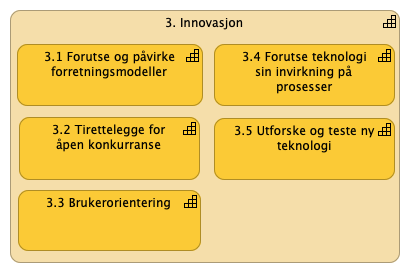
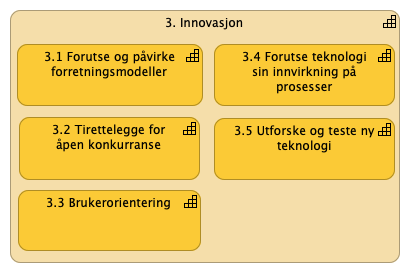
startside

Changed region(s): [[0.6146, 0.2344, 0.878, 0.293]]

diff --git a/docs/id-0322705d/views/20e4f00c-83ba-46d8-ac95-96dc15a09e89.html b/docs/id-0322705d/views/20e4f00c-83ba-46d8-ac95-96dc15a09e89.html
@@ -1,0 +1,115 @@
+<!DOCTYPE HTML PUBLIC "-//W3C//DTD HTML 4.01 Transitional//EN" "http://www.w3.org/TR/html4/loose.dtd">
+<html class="frame" lang="en">
+<head>
+	<meta http-equiv="Content-Type" content="text/html;charset=utf-8">
+	<title>Evner Samarbeid</title>
+
+	<!-- JQUERY (use 1.x branch to be compatible with IE 6/7/8) -->
+	<script type="text/javascript" src="../../lib/jquery/js/jquery-1.11.2.min.js"></script>
+	<!-- BOOTSTRAP -->
+	<link type="text/css" rel="stylesheet" href="../../lib/bootstrap/css/bootstrap-3.3.2.min.css">
+	<link type="text/css" rel="stylesheet" href="../../lib/bootstrap/css/bootstrap-theme-3.3.2.min.css">
+	<script type="text/javascript" src="../../lib/bootstrap/js/bootstrap-3.3.2.min.js"></script>
+	<!-- REPORT SPECIFIC -->
+	<link type="text/css" rel="stylesheet" href="../../css/model.css">
+	<link type="text/css" rel="stylesheet" href="../../css/i18n.css">
+	<script type="text/javascript" src="../../js/frame.js"></script>
+	<script type="text/javascript" src="../../js/imageMapResizer.min.js"></script>
+</head>
+
+<body>
+	<div class="panel panel-default root-panel">
+		<div class="panel-heading root-panel-heading">
+			<b>Evner Samarbeid</b>
+			(<span class="i18n-viewpoint-"></span>)
+			<a class="glyphicon glyphicon-info-sign" id="hint-viewpoint_" target="hint"></a>
+		</div>
+		<div class="panel-body root-panel-body">
+			<img class="diagram" src="../images/20e4f00c-83ba-46d8-ac95-96dc15a09e89.png" alt="Evner Samarbeid" usemap="#20e4f00c-83ba-46d8-ac95-96dc15a09e89map">
+			<map name="20e4f00c-83ba-46d8-ac95-96dc15a09e89map">
+								<area shape="rect" coords="17,46,198,107" href="../elements/id-bdad4017-a9b2-4dda-85db-9ab42f083fdd.html"  target="element">
+								<area shape="rect" coords="17,118,198,179" href="../elements/id-44c76f38-a586-4492-8188-064d75d26e78.html"  target="element">
+
+						<area shape="rect" coords="10,10,204,263" href="../elements/id-828ed446-0fb2-4317-8886-436a66b642cf.html"  target="element">
+
+			</map>
+			<div role="tabpanel">
+				<!-- Nav tabs -->
+				<ul class="nav nav-tabs" role="tablist">
+					<li role="presentation" class="active"><a href="#documentation" aria-controls="documentation" role="tab" data-toggle="tab" class="i18n-documentation"></a></li>
+					<li role="presentation"><a href="#properties" aria-controls="properties" role="tab" data-toggle="tab" class="i18n-properties"></a></li>
+						<li role="presentation"><a href="#elements" aria-controls="elements" role="tab" data-toggle="tab" class="i18n-elements"></a></li>
+						<li role="presentation"><a href="#relationships" aria-controls="relationships" role="tab" data-toggle="tab" class="i18n-relationships"></a></li>
+				</ul>
+
+				<!-- Tab panes -->
+				<div class="tab-content">
+					<div role="tabpanel" class="tab-pane active" id="documentation">
+						<textarea id="docsrc" style="display:none"></textarea>
+						<div id="doctgt" style="white-space:pre-wrap"></div>
+					</div>
+					<div role="tabpanel" class="tab-pane" id="properties">
+						<table class="table table-striped table-hover table-condensed">
+							<thead>
+								<tr>
+									<th class="i18n-key"></th>
+									<th class="i18n-value"></th>
+								</tr>
+							</thead>
+							<tbody>
+							</tbody>
+						</table>
+					</div>
+						<div role="tabpanel" class="tab-pane" id="elements">
+							<table class="table table-striped table-hover table-condensed">
+								<thead>
+									<tr>
+										<th class="i18n-name"></th>
+										<th class="i18n-type"></th>
+									</tr>
+								</thead>
+								<tbody>
+											<tr><td> <a href="../elements/id-828ed446-0fb2-4317-8886-436a66b642cf.html" target="element"> 4. Samarbeid </a> </td><td class="i18n-elementtype-Capability"></td></tr>
+													<tr><td> <a href="../elements/id-bdad4017-a9b2-4dda-85db-9ab42f083fdd.html" target="element"> 4.1 Koordinering </a> </td><td class="i18n-elementtype-Capability"></td></tr>
+													<tr><td> <a href="../elements/id-44c76f38-a586-4492-8188-064d75d26e78.html" target="element"> 4.2 Tjenesteeierskap og forvaltning </a> </td><td class="i18n-elementtype-Capability"></td></tr>
+											
+
+								</tbody>
+							</table>
+						</div>
+						<div role="tabpanel" class="tab-pane" id="relationships">
+							<table class="table table-striped table-hover table-condensed">
+								<thead>
+									<tr>
+										<th class="i18n-name"></th>
+										<th class="i18n-type"></th>
+										<th class="i18n-source"></th>
+										<th class="i18n-target"></th>
+									</tr>
+								</thead>
+								<tbody>
+																	<tr>
+																		<td> <a href="../elements/id-13865349-d09e-493d-b149-04084996fb95.html" target="element">  </a> </td>
+																		<td> <a href="../elements/id-13865349-d09e-493d-b149-04084996fb95.html" target="element" class="i18n-elementtype-CompositionRelationship"></a> </td>
+																		<td> <a href="../elements/id-828ed446-0fb2-4317-8886-436a66b642cf.html" target="element"> 4. Samarbeid </a> </td>
+																		<td> <a href="../elements/id-bdad4017-a9b2-4dda-85db-9ab42f083fdd.html" target="element"> 4.1 Koordinering </a> </td>
+																	</tr>
+																	<tr>
+																		<td> <a href="../elements/id-e97675c5-2b49-4c9a-b738-6e1e57c48ce3.html" target="element">  </a> </td>
+																		<td> <a href="../elements/id-e97675c5-2b49-4c9a-b738-6e1e57c48ce3.html" target="element" class="i18n-elementtype-CompositionRelationship"></a> </td>
+																		<td> <a href="../elements/id-828ed446-0fb2-4317-8886-436a66b642cf.html" target="element"> 4. Samarbeid </a> </td>
+																		<td> <a href="../elements/id-44c76f38-a586-4492-8188-064d75d26e78.html" target="element"> 4.2 Tjenesteeierskap og forvaltning </a> </td>
+																	</tr>
+
+											
+
+								</tbody>
+							</table>
+						</div>
+			  </div>
+			</div>
+		</div>
+	</div>
+	<script type="text/javascript">imageMapResize();</script>
+</body>
+</html>

diff --git a/docs/index.html b/docs/index.html
@@ -213,7 +213,7 @@
                                     				<li class="tree-element"><a href="id-0322705d/elements/id-9f5d172b-7ded-4d84-ad8c-b3d166b018c8.html" target="element"> Digitalt tilskuddsregister (DigiTilskudd) </a></li>
                                     				<li class="tree-element"><a href="id-0322705d/elements/id-1bccc859-a0bb-444b-9997-ba277557076e.html" target="element"> Verkt&#248;y </a></li>
                                     				<li class="tree-element"><a href="id-0322705d/elements/id-7797665a-3afc-4dce-bf68-555317e1cca6.html" target="element"> 3.7 Access to re-usable public sector information &#8211; Public Open Data </a></li>
-                                    				<li class="tree-element"><a href="id-0322705d/elements/id-58c5929e-b381-4cb4-9040-2e5ee0034865.html" target="element"> 3.4 Forutse teknologi sin invirkning p&#229; prosesser </a></li>
+                                    				<li class="tree-element"><a href="id-0322705d/elements/id-58c5929e-b381-4cb4-9040-2e5ee0034865.html" target="element"> 3.4 Forutse teknologi sin innvirkning p&#229; prosesser </a></li>
                                     				<li class="tree-element"><a href="id-0322705d/elements/id-34b89545-0ff1-4976-93ed-1e52e29e91bb.html" target="element"> Arbeidsgruppe videreutvikling av Frivillighetsregisteret </a></li>
                                     				<li class="tree-element"><a href="id-0322705d/elements/id-76bbf43f-ac4a-40ec-836f-3667078c62df.html" target="element"> 1.3 Strukturere dataene i modeller </a></li>
                                     				<li class="tree-element"><a href="id-0322705d/elements/id-af8b810c-0464-489a-b70b-183bb22f1a31.html" target="element"> Konsept, metode </a></li>
@@ -4267,7 +4267,7 @@
 													</a></li>
 													<li class="tree-element"><a href="id-0322705d/elements/id-4441d565-6279-4ea3-aa41-bc3a9268072c.html" target="element">
 															<span class="i18n-elementtype-CompositionRelationship"></span>
-														(3. Innovasjon - 3.4 Forutse teknologi sin invirkning p&#229; prosesser) 
+														(3. Innovasjon - 3.4 Forutse teknologi sin innvirkning p&#229; prosesser) 
 													</a></li>
 													<li class="tree-element"><a href="id-0322705d/elements/id-51eb8d8b-cc59-4f7c-9ee9-6808cada35ae.html" target="element">
 															<span class="i18n-elementtype-CompositionRelationship"></span>
@@ -7927,19 +7927,19 @@
 									</ul>
 									</li><li class="tree-folder"><span><i class="glyphicon glyphicon-triangle-right"></i> BR Evner DU </span>
 									<ul>
-										<li class="tree-folder"><span><i class="glyphicon glyphicon-triangle-right"></i> BR Evner Informasjonsforvaltning </span>
+										<li class="tree-folder"><span><i class="glyphicon glyphicon-triangle-right"></i> 1. Informasjonsforvaltning </span>
 											<ul>
 															<li class="tree-element"><a href="id-0322705d/views/id-74fbe580.html" target="view"> Informasjonsforvaltning begrepsmodell </a></li>
 															<li class="tree-element"><a href="id-0322705d/views/id-6ef4d0d0-d5dd-4c4e-9847-530d4740ff40.html" target="view"> Evner informasjonsforvaltning </a></li>
 															<li class="tree-element"><a href="id-0322705d/views/id-fdd09a54-40d4-4387-a013-e320820d11c4.html" target="view"> Evner informasjonsforvaltning detaljert </a></li>
 
 											</ul>
-											</li><li class="tree-folder"><span><i class="glyphicon glyphicon-triangle-right"></i> BR Evner Tilgjengeliggjøring </span>
+											</li><li class="tree-folder"><span><i class="glyphicon glyphicon-triangle-right"></i> 2. Tilgjengeliggjøring </span>
 											<ul>
 															<li class="tree-element"><a href="id-0322705d/views/3eac1f60-b853-4ec5-a8a1-fae58c8258a4.html" target="view"> Evner Tilgjengeliggj&#248;ring </a></li>
 
 											</ul>
-											</li><li class="tree-folder"><span><i class="glyphicon glyphicon-triangle-right"></i> BR Evner Innovasjon </span>
+											</li><li class="tree-folder"><span><i class="glyphicon glyphicon-triangle-right"></i> 3. Innovasjon </span>
 											<ul>
 															<li class="tree-element"><a href="id-0322705d/views/8d7d6118-745e-4c9f-b17f-ebd62ed22a15.html" target="view"> Evner informasjonsforvaltning </a></li>
 
@@ -7949,15 +7949,17 @@
 															<li class="tree-element"><a href="id-0322705d/views/4ac1b9d7-156f-4465-8113-b8c0d7de1991.html" target="view"> Evner Samarbeid </a></li>
 
 											</ul>
-											</li><li class="tree-folder"><span><i class="glyphicon glyphicon-triangle-right"></i> BR Evner Arkitektur </span>
+											</li><li class="tree-folder"><span><i class="glyphicon glyphicon-triangle-right"></i> 5. Arkitektur </span>
 											<ul>
 															<li class="tree-element"><a href="id-0322705d/views/c5872ea1-1fd6-49e9-9c29-746924837c48.html" target="view"> Evner arkitektur </a></li>
 
 											</ul>
-											</li><li class="tree-folder"><span><i class="glyphicon glyphicon-triangle-right"></i> BR Evner  </span>
+											</li><li class="tree-folder"><span><i class="glyphicon glyphicon-triangle-right"></i> 4. Samarbeid </span>
 											<ul>
+															<li class="tree-element"><a href="id-0322705d/views/20e4f00c-83ba-46d8-ac95-96dc15a09e89.html" target="view"> Evner Samarbeid </a></li>
+
 											</ul>
-											</li><li class="tree-folder"><span><i class="glyphicon glyphicon-triangle-right"></i> BR Evner Samfunnsøkonomiske analyser </span>
+											</li><li class="tree-folder"><span><i class="glyphicon glyphicon-triangle-right"></i> 6. Samfunnsøkonomiske analyser </span>
 											<ul>
 															<li class="tree-element"><a href="id-0322705d/views/80c2012a-163b-4837-9732-b5d74c60d946.html" target="view"> Evner samfunns&#248;konomiske analyser </a></li>
 

diff --git a/docs/id-0322705d/views/id-5e897cc8-b9cf-4923-85ce-6d3dbacc1854.html b/docs/id-0322705d/views/id-5e897cc8-b9cf-4923-85ce-6d3dbacc1854.html
@@ -112,7 +112,7 @@
 													
 													<tr><td> <a href="../elements/id-2656d7c4-3ea1-4680-84a1-7f8eaf416cef.html" target="element"> 3. Innovasjon </a> </td><td class="i18n-elementtype-Capability"></td></tr>
 															<tr><td> <a href="../elements/id-3568aefe-4449-4649-a293-9c533b75f5cf.html" target="element"> 3.1 Forutse og p&#229;virke forretningsmodeller </a> </td><td class="i18n-elementtype-Capability"></td></tr>
-															<tr><td> <a href="../elements/id-58c5929e-b381-4cb4-9040-2e5ee0034865.html" target="element"> 3.4 Forutse teknologi sin invirkning p&#229; prosesser </a> </td><td class="i18n-elementtype-Capability"></td></tr>
+															<tr><td> <a href="../elements/id-58c5929e-b381-4cb4-9040-2e5ee0034865.html" target="element"> 3.4 Forutse teknologi sin innvirkning p&#229; prosesser </a> </td><td class="i18n-elementtype-Capability"></td></tr>
 															<tr><td> <a href="../elements/id-3eaef368-1f73-47f5-93c5-2ee22d24a3e3.html" target="element"> 3.2 Tirettelegge for &#229;pen konkurranse </a> </td><td class="i18n-elementtype-Capability"></td></tr>
 															<tr><td> <a href="../elements/id-4fdbd02b-f7c6-4b20-82b8-ef247fa3e08a.html" target="element"> 3.5 Utforske og teste ny teknologi </a> </td><td class="i18n-elementtype-Capability"></td></tr>
 															<tr><td> <a href="../elements/id-9c5e6edd-3c0b-44f0-ba0a-fd2f4a364d72.html" target="element"> 3.3 Brukerorientering </a> </td><td class="i18n-elementtype-Capability"></td></tr>
@@ -233,7 +233,7 @@
 																				<td> <a href="../elements/id-4441d565-6279-4ea3-aa41-bc3a9268072c.html" target="element">  </a> </td>
 																				<td> <a href="../elements/id-4441d565-6279-4ea3-aa41-bc3a9268072c.html" target="element" class="i18n-elementtype-CompositionRelationship"></a> </td>
 																				<td> <a href="../elements/id-2656d7c4-3ea1-4680-84a1-7f8eaf416cef.html" target="element"> 3. Innovasjon </a> </td>
-																				<td> <a href="../elements/id-58c5929e-b381-4cb4-9040-2e5ee0034865.html" target="element"> 3.4 Forutse teknologi sin invirkning p&#229; prosesser </a> </td>
+																				<td> <a href="../elements/id-58c5929e-b381-4cb4-9040-2e5ee0034865.html" target="element"> 3.4 Forutse teknologi sin innvirkning p&#229; prosesser </a> </td>
 																			</tr>
 																			<tr>
 																				<td> <a href="../elements/id-7bf8082f-9dc1-48bc-a7e2-8a67afd35ad7.html" target="element">  </a> </td>

diff --git a/docs/id-0322705d/views/8d7d6118-745e-4c9f-b17f-ebd62ed22a15.html b/docs/id-0322705d/views/8d7d6118-745e-4c9f-b17f-ebd62ed22a15.html
@@ -74,7 +74,7 @@
 								<tbody>
 											<tr><td> <a href="../elements/id-2656d7c4-3ea1-4680-84a1-7f8eaf416cef.html" target="element"> 3. Innovasjon </a> </td><td class="i18n-elementtype-Capability"></td></tr>
 													<tr><td> <a href="../elements/id-3568aefe-4449-4649-a293-9c533b75f5cf.html" target="element"> 3.1 Forutse og p&#229;virke forretningsmodeller </a> </td><td class="i18n-elementtype-Capability"></td></tr>
-													<tr><td> <a href="../elements/id-58c5929e-b381-4cb4-9040-2e5ee0034865.html" target="element"> 3.4 Forutse teknologi sin invirkning p&#229; prosesser </a> </td><td class="i18n-elementtype-Capability"></td></tr>
+													<tr><td> <a href="../elements/id-58c5929e-b381-4cb4-9040-2e5ee0034865.html" target="element"> 3.4 Forutse teknologi sin innvirkning p&#229; prosesser </a> </td><td class="i18n-elementtype-Capability"></td></tr>
 													<tr><td> <a href="../elements/id-3eaef368-1f73-47f5-93c5-2ee22d24a3e3.html" target="element"> 3.2 Tirettelegge for &#229;pen konkurranse </a> </td><td class="i18n-elementtype-Capability"></td></tr>
 													<tr><td> <a href="../elements/id-4fdbd02b-f7c6-4b20-82b8-ef247fa3e08a.html" target="element"> 3.5 Utforske og teste ny teknologi </a> </td><td class="i18n-elementtype-Capability"></td></tr>
 													<tr><td> <a href="../elements/id-9c5e6edd-3c0b-44f0-ba0a-fd2f4a364d72.html" target="element"> 3.3 Brukerorientering </a> </td><td class="i18n-elementtype-Capability"></td></tr>
@@ -122,7 +122,7 @@
 																		<td> <a href="../elements/id-4441d565-6279-4ea3-aa41-bc3a9268072c.html" target="element">  </a> </td>
 																		<td> <a href="../elements/id-4441d565-6279-4ea3-aa41-bc3a9268072c.html" target="element" class="i18n-elementtype-CompositionRelationship"></a> </td>
 																		<td> <a href="../elements/id-2656d7c4-3ea1-4680-84a1-7f8eaf416cef.html" target="element"> 3. Innovasjon </a> </td>
-																		<td> <a href="../elements/id-58c5929e-b381-4cb4-9040-2e5ee0034865.html" target="element"> 3.4 Forutse teknologi sin invirkning p&#229; prosesser </a> </td>
+																		<td> <a href="../elements/id-58c5929e-b381-4cb4-9040-2e5ee0034865.html" target="element"> 3.4 Forutse teknologi sin innvirkning p&#229; prosesser </a> </td>
 																	</tr>
 
 											

diff --git a/docs/id-0322705d/views/id-67df2cee-0f4d-403b-8ccd-23c485ab56ee.html b/docs/id-0322705d/views/id-67df2cee-0f4d-403b-8ccd-23c485ab56ee.html
@@ -458,7 +458,7 @@
 													
 													<tr><td> <a href="../elements/id-2656d7c4-3ea1-4680-84a1-7f8eaf416cef.html" target="element"> 3. Innovasjon </a> </td><td class="i18n-elementtype-Capability"></td></tr>
 															<tr><td> <a href="../elements/id-3568aefe-4449-4649-a293-9c533b75f5cf.html" target="element"> 3.1 Forutse og p&#229;virke forretningsmodeller </a> </td><td class="i18n-elementtype-Capability"></td></tr>
-															<tr><td> <a href="../elements/id-58c5929e-b381-4cb4-9040-2e5ee0034865.html" target="element"> 3.4 Forutse teknologi sin invirkning p&#229; prosesser </a> </td><td class="i18n-elementtype-Capability"></td></tr>
+															<tr><td> <a href="../elements/id-58c5929e-b381-4cb4-9040-2e5ee0034865.html" target="element"> 3.4 Forutse teknologi sin innvirkning p&#229; prosesser </a> </td><td class="i18n-elementtype-Capability"></td></tr>
 															<tr><td> <a href="../elements/id-3eaef368-1f73-47f5-93c5-2ee22d24a3e3.html" target="element"> 3.2 Tirettelegge for &#229;pen konkurranse </a> </td><td class="i18n-elementtype-Capability"></td></tr>
 															<tr><td> <a href="../elements/id-4fdbd02b-f7c6-4b20-82b8-ef247fa3e08a.html" target="element"> 3.5 Utforske og teste ny teknologi </a> </td><td class="i18n-elementtype-Capability"></td></tr>
 													
@@ -1191,7 +1191,7 @@
 																				<td> <a href="../elements/id-4441d565-6279-4ea3-aa41-bc3a9268072c.html" target="element">  </a> </td>
 																				<td> <a href="../elements/id-4441d565-6279-4ea3-aa41-bc3a9268072c.html" target="element" class="i18n-elementtype-CompositionRelationship"></a> </td>
 																				<td> <a href="../elements/id-2656d7c4-3ea1-4680-84a1-7f8eaf416cef.html" target="element"> 3. Innovasjon </a> </td>
-																				<td> <a href="../elements/id-58c5929e-b381-4cb4-9040-2e5ee0034865.html" target="element"> 3.4 Forutse teknologi sin invirkning p&#229; prosesser </a> </td>
+																				<td> <a href="../elements/id-58c5929e-b381-4cb4-9040-2e5ee0034865.html" target="element"> 3.4 Forutse teknologi sin innvirkning p&#229; prosesser </a> </td>
 																			</tr>
 																			<tr>
 																				<td> <a href="../elements/id-7bf8082f-9dc1-48bc-a7e2-8a67afd35ad7.html" target="element">  </a> </td>

diff --git a/docs/id-0322705d/elements/model.html b/docs/id-0322705d/elements/model.html
@@ -399,7 +399,7 @@
 								Se Rapport fra deloitte....")});
 										dataElements.push({id:"id-1bccc859-a0bb-444b-9997-ba277557076e", type:"Capability", name:decodeURL("Verkt%C3%B8y"), description:decodeURL("")});
 										dataElements.push({id:"id-7797665a-3afc-4dce-bf68-555317e1cca6", type:"CourseOfAction", name:decodeURL("3.7+Access+to+re-usable+public+sector+information+%E2%80%93+Public+Open+Data"), description:decodeURL("")});
-										dataElements.push({id:"id-58c5929e-b381-4cb4-9040-2e5ee0034865", type:"Capability", name:decodeURL("3.4+Forutse+teknologi+sin+invirkning+p%C3%A5+prosesser"), description:decodeURL("")});
+										dataElements.push({id:"id-58c5929e-b381-4cb4-9040-2e5ee0034865", type:"Capability", name:decodeURL("3.4+Forutse+teknologi+sin+innvirkning+p%C3%A5+prosesser"), description:decodeURL("")});
 										dataElements.push({id:"id-34b89545-0ff1-4976-93ed-1e52e29e91bb", type:"CourseOfAction", name:decodeURL("Arbeidsgruppe+videreutvikling+av+Frivillighetsregisteret"), description:decodeURL("")});
 										dataElements.push({id:"id-76bbf43f-ac4a-40ec-836f-3667078c62df", type:"Capability", name:decodeURL("1.3+Strukturere+dataene+i+modeller"), description:decodeURL("Form&#229;l
 
@@ -3816,6 +3816,9 @@
 
 
 												<!-- DEBUG: Skipping view Evner arkitektur -->
+
+
+												<!-- DEBUG: Skipping view Evner Samarbeid -->
 
 
 												<!-- DEBUG: Skipping view Evner samfunnsøkonomiske analyser -->

diff --git a/docs/id-0322705d/elements/id-58c5929e-b381-4cb4-9040-2e5ee0034865.html b/docs/id-0322705d/elements/id-58c5929e-b381-4cb4-9040-2e5ee0034865.html
@@ -2,7 +2,7 @@
 <html class="frame" lang="en">
 <head>
 	<meta http-equiv="Content-Type" content="text/html;charset=utf-8">
-	<title>3.4 Forutse teknologi sin invirkning på prosesser</title>
+	<title>3.4 Forutse teknologi sin innvirkning på prosesser</title>
 
 	<!-- JQUERY (use 1.x branch to be compatible with IE 6/7/8) -->
 	<script type="text/javascript" src="../../lib/jquery/js/jquery-1.11.2.min.js"></script>
@@ -20,7 +20,7 @@
 <body>
 	<div class="panel panel-default root-panel">
 		<div class="panel-heading root-panel-heading">
-			<b>3.4 Forutse teknologi sin invirkning p&#229; prosesser</b>
+			<b>3.4 Forutse teknologi sin innvirkning p&#229; prosesser</b>
 			(<span class="i18n-elementtype-Capability"></span>)
 			<a class="glyphicon glyphicon-info-sign" id="hint-Capability" target="hint"></a>
 		</div>

diff --git a/docs/id-0322705d/elements/id-4441d565-6279-4ea3-aa41-bc3a9268072c.html b/docs/id-0322705d/elements/id-4441d565-6279-4ea3-aa41-bc3a9268072c.html
@@ -42,7 +42,7 @@
 								</a> <br>
 							<b class="i18n-relation-target"></b>
 								<a href="../elements/id-58c5929e-b381-4cb4-9040-2e5ee0034865.html" target="element">
-									3.4 Forutse teknologi sin invirkning p&#229; prosesser
+									3.4 Forutse teknologi sin innvirkning p&#229; prosesser
 								</a> <br>
 							<br>
 						<textarea id="docsrc" style="display:none"></textarea>
